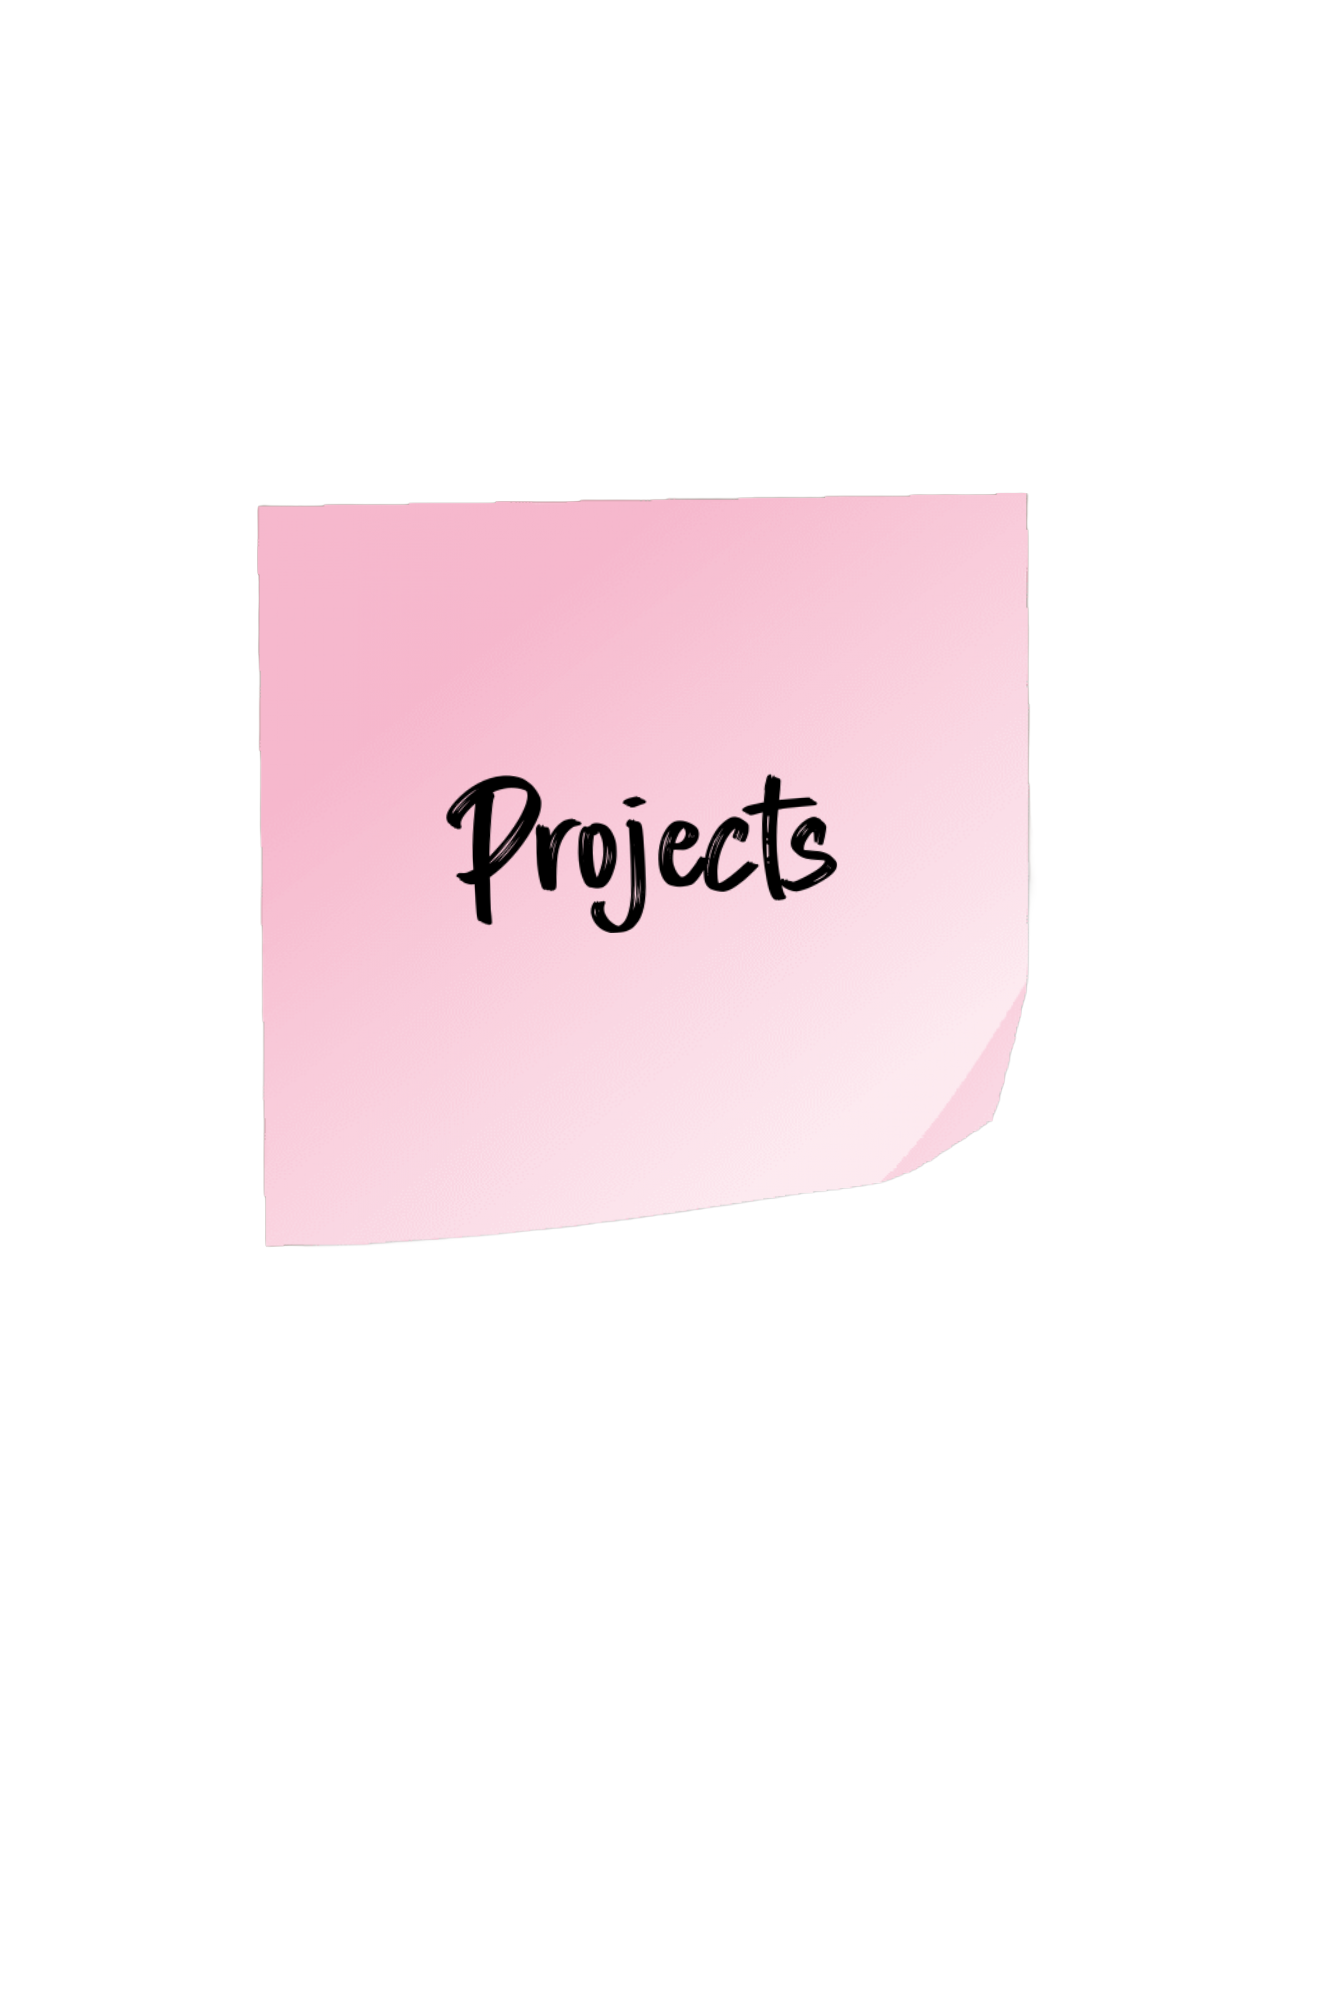
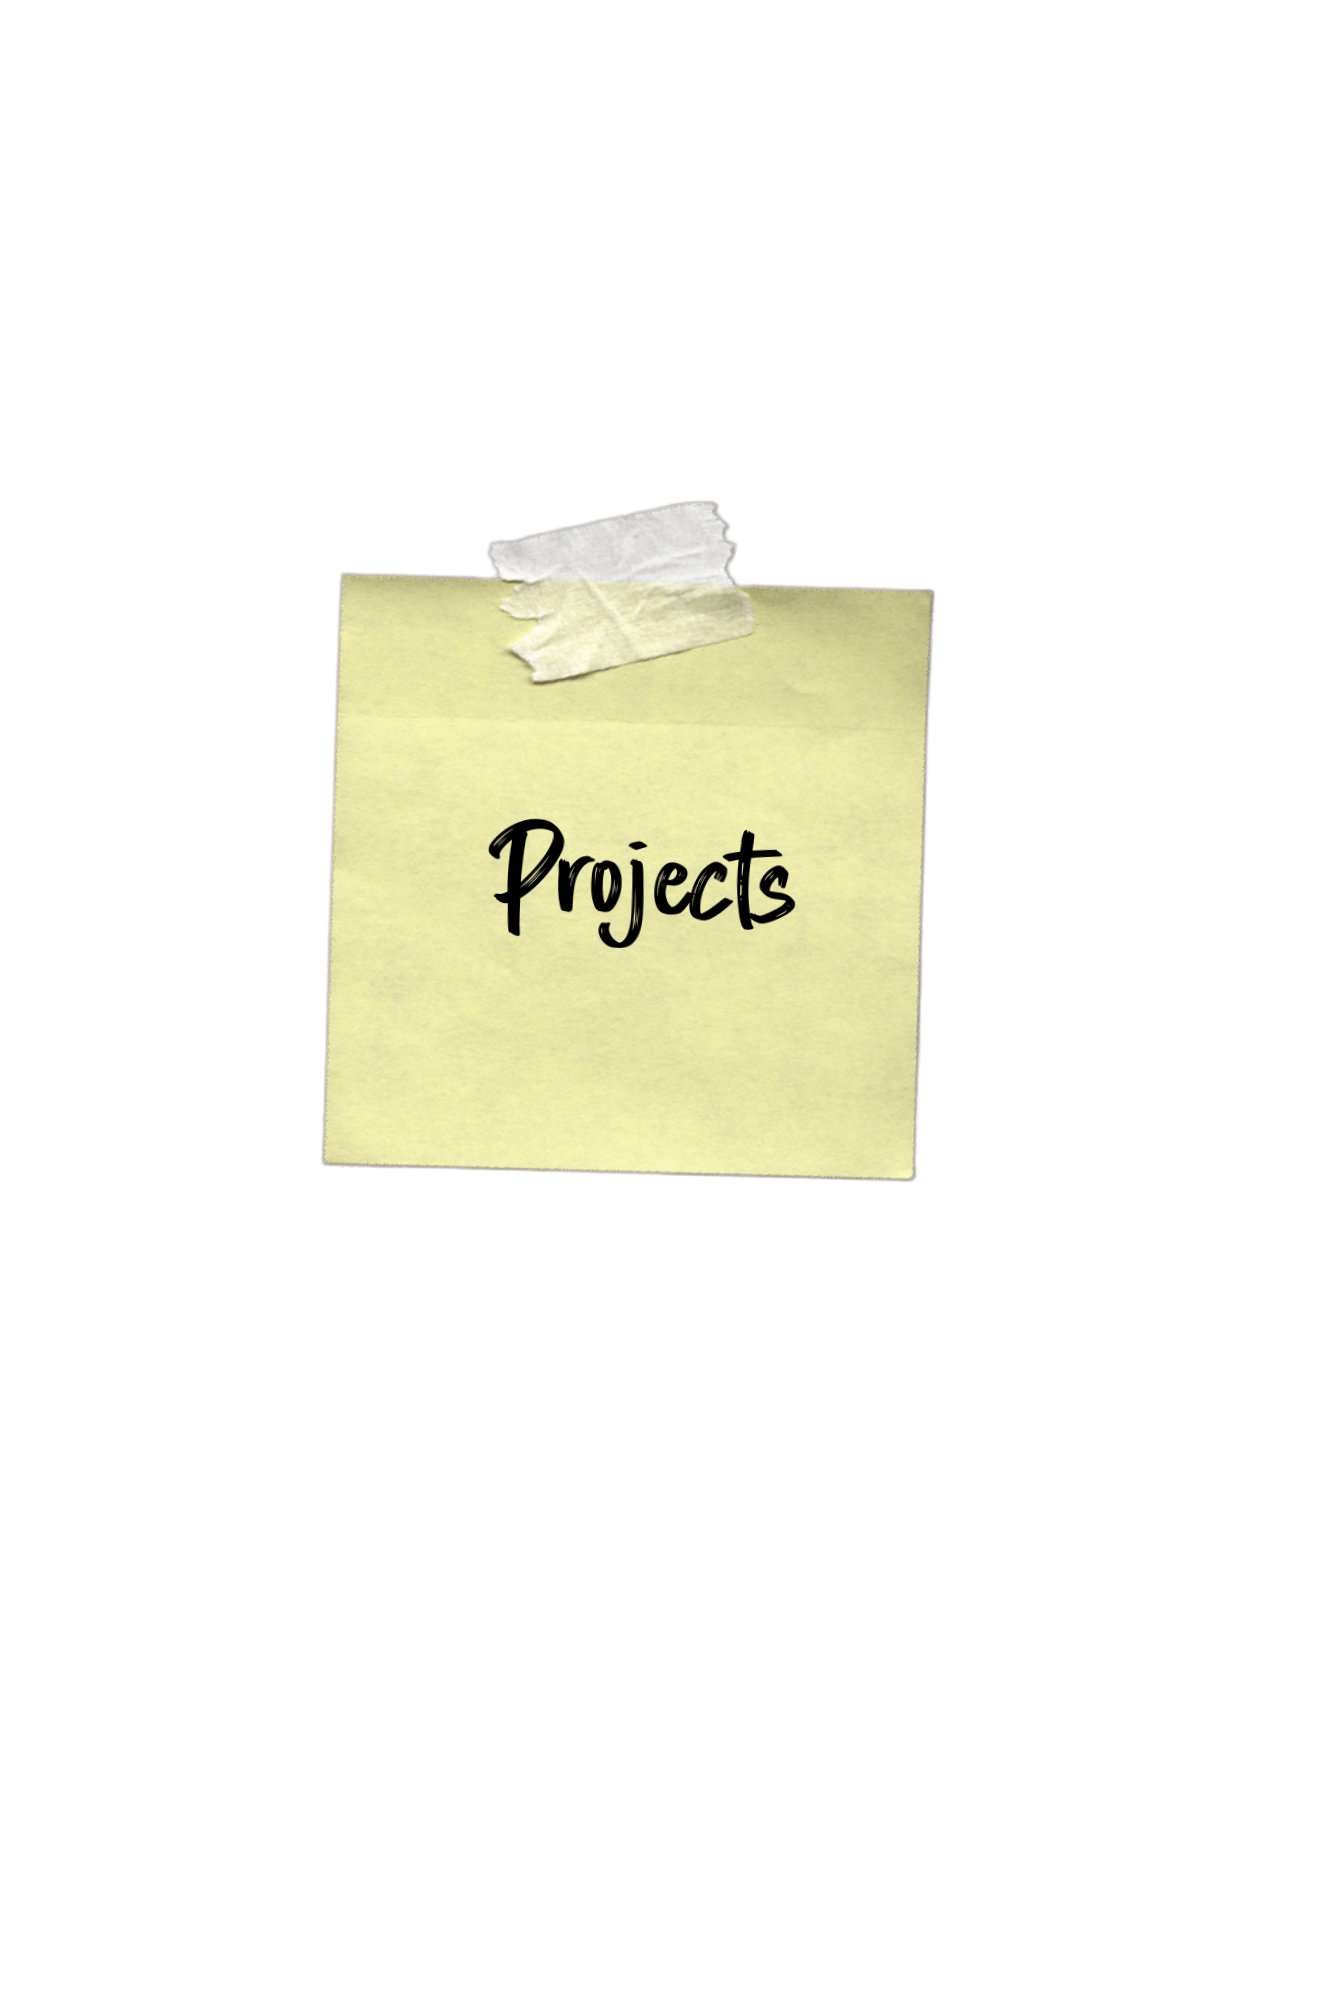
decor stuff

Changed region(s): [[0.1845, 0.248, 0.7997, 0.62]]

diff --git a/src/sections/ThreeBanner.jsx b/src/sections/ThreeBanner.jsx
@@ -59,7 +59,7 @@ const ThreeBanner = () => {
         
         <RotatingShape
           position={[3, 2, -3]}
-          color="#53a12f"
+          color="#F7C331"
           shape="torusKnot"
           scale={0.6}
           animation="rotate1"
@@ -67,7 +67,7 @@ const ThreeBanner = () => {
         
         <RotatingShape
           position={[5, 0, 0]}
-          color="#e879f9"
+          color="#F7882F"
           shape="torus"
           scale={0.5}
           animation="rotate2"
@@ -75,7 +75,7 @@ const ThreeBanner = () => {
         
         <RotatingShape
           position={[9, 0, 0]}
-          color="#38bdf8"
+          color="#DCC7AA"
           shape="octahedron"
           scale={0.5}
           animation="rotate1"
@@ -83,7 +83,7 @@ const ThreeBanner = () => {
 
         <RotatingShape
           position={[6, 1, 1]}
-          color="orange"
+          color="#7B7A8F"
           shape="cone"
           scale={0.3}
           animation="bounce"
@@ -92,7 +92,7 @@ const ThreeBanner = () => {
 
         <RotatingShape
           position={[13, -2, -1]}
-          color="yellow"
+          color="#F7C331"
           shape="box"
           scale={0.6}
           animation="rotate2"
@@ -100,7 +100,7 @@ const ThreeBanner = () => {
 
         <RotatingShape
           position={[-3, 2, -3]}
-          color="#60a5fa"
+          color="#7B7A8F"
           shape="torus"
           scale={0.6}
           animation="rotate1"
@@ -108,7 +108,7 @@ const ThreeBanner = () => {
 
         <RotatingShape
           position={[-5, 0, 0]}
-          color="#34d399"
+          color="#DCC7AA"
           shape="octahedron"
           scale={0.5}
           animation="rotate1"
@@ -116,7 +116,7 @@ const ThreeBanner = () => {
 
         <RotatingShape
           position={[-9, 0, 0]}
-          color="#fb7185"
+          color="#F7882F"
           shape="torusKnot"
           scale={0.5}
           animation="rotate2"
@@ -124,7 +124,7 @@ const ThreeBanner = () => {
 
         <RotatingShape
           position={[-6, 1.5, 1]}
-          color="#a855f7"
+          color="#F7C331"
           shape="box"
           scale={0.6}
           animation="rotate1"
@@ -132,7 +132,7 @@ const ThreeBanner = () => {
 
         <RotatingShape
           position={[-13, -2, -1]}
-          color="#a78bfa"
+          color="#7B7A8F"
           shape="cone"
           scale={0.4}
           animation="bounce"

diff --git a/src/App.jsx b/src/App.jsx
@@ -32,10 +32,9 @@ const App = () => {
             <p
             className="text-lg font-normal text-black mt-4 pl-4"
             > I'm a third-year Mathematics and Computer Science 
-            student at McGill University with a strong interest in computer graphics, 3D, animation, simulation, and
-            game development. I enjoy working on projects that combine programming, mathematics, and creativity. 
-            Through my coursework and personal projects, I've been exploring real-time graphics, character animation, 
-            and Unreal Engine.</p>
+            student at McGill University. I'm super interested computer graphics, 3D, animation, simulation, and
+            game development. I like making cool stuff with code. In my free time, I've been working on graphics simulations,
+             character animation, and an open-world RPG game in Unreal Engine.</p>
             </div>
 
             <div
@@ -44,7 +43,7 @@ const App = () => {
             >
               
               <svg
-              className="absolute top-0 left-0 w-full h-full z-10 pointer-events-none -translate-y-68"
+              className="absolute top-0 left-0 w-full h-full z-10 pointer-events-none -translate-y-70"
               viewBox="0 0 1000 600"
               preserveAspectRatio="xMidYMid meet"
               >
@@ -89,14 +88,34 @@ const App = () => {
             className="absolute right-[5%] w-[45%]"
             />
 
+            <img
+            src="/Mushroom.gif"
+            className="absolute right-[0%] top-[29%] w-[30%]"
+            style={{
+              imageRendering: 'pixelated',
+              objectFit: 'contain',
+            }}
+            />
+
             
             <Link
               to="/projects"
-              className="absolute bottom-[15%] left-[7%] w-[50%] lg:w-[60%]"
+              className="absolute -rotate-5 top-[25%] left-[5%] w-[60%]"
             >
               <img
                 src="/Projects.png"
                 alt="Projects"
+                className="block w-full"
+              />
+            </Link>
+
+             <Link
+              to="/experience"
+              className="absolute rotate-5 top-[33%] right-[-5%] w-[60%]"
+            >
+              <img
+                src="/Experience.png"
+                alt="Experience"
                 className="block w-full"
               />
             </Link>

diff --git a/src/Projects.jsx b/src/Projects.jsx
@@ -11,7 +11,7 @@ const Projects = () => {
       </h1>
 
       <p className="mt-4 text-lg">
-        Here are some of my programming, graphics, and game development projects.
+        TBA
       </p>
     </main>
     </>
